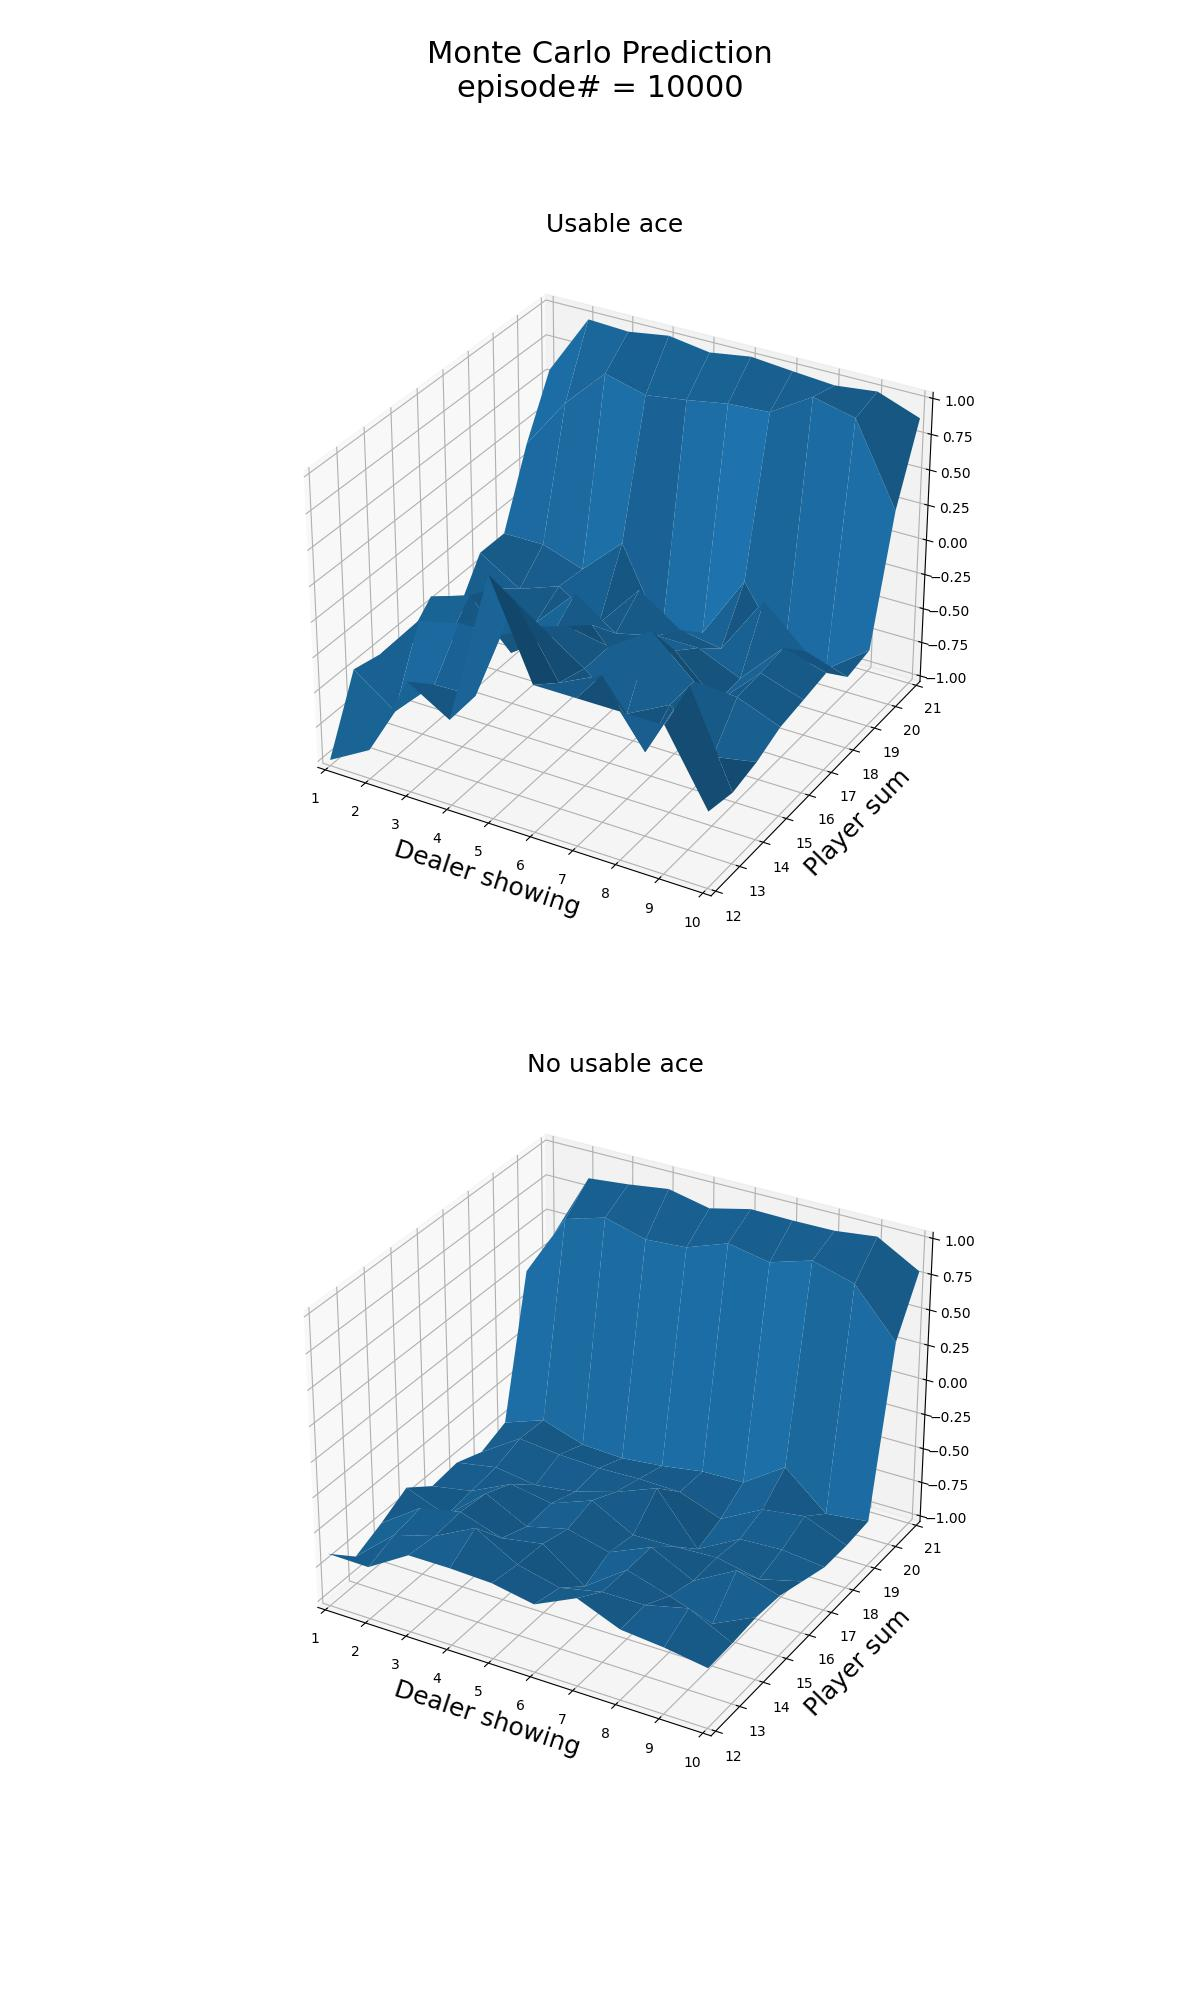
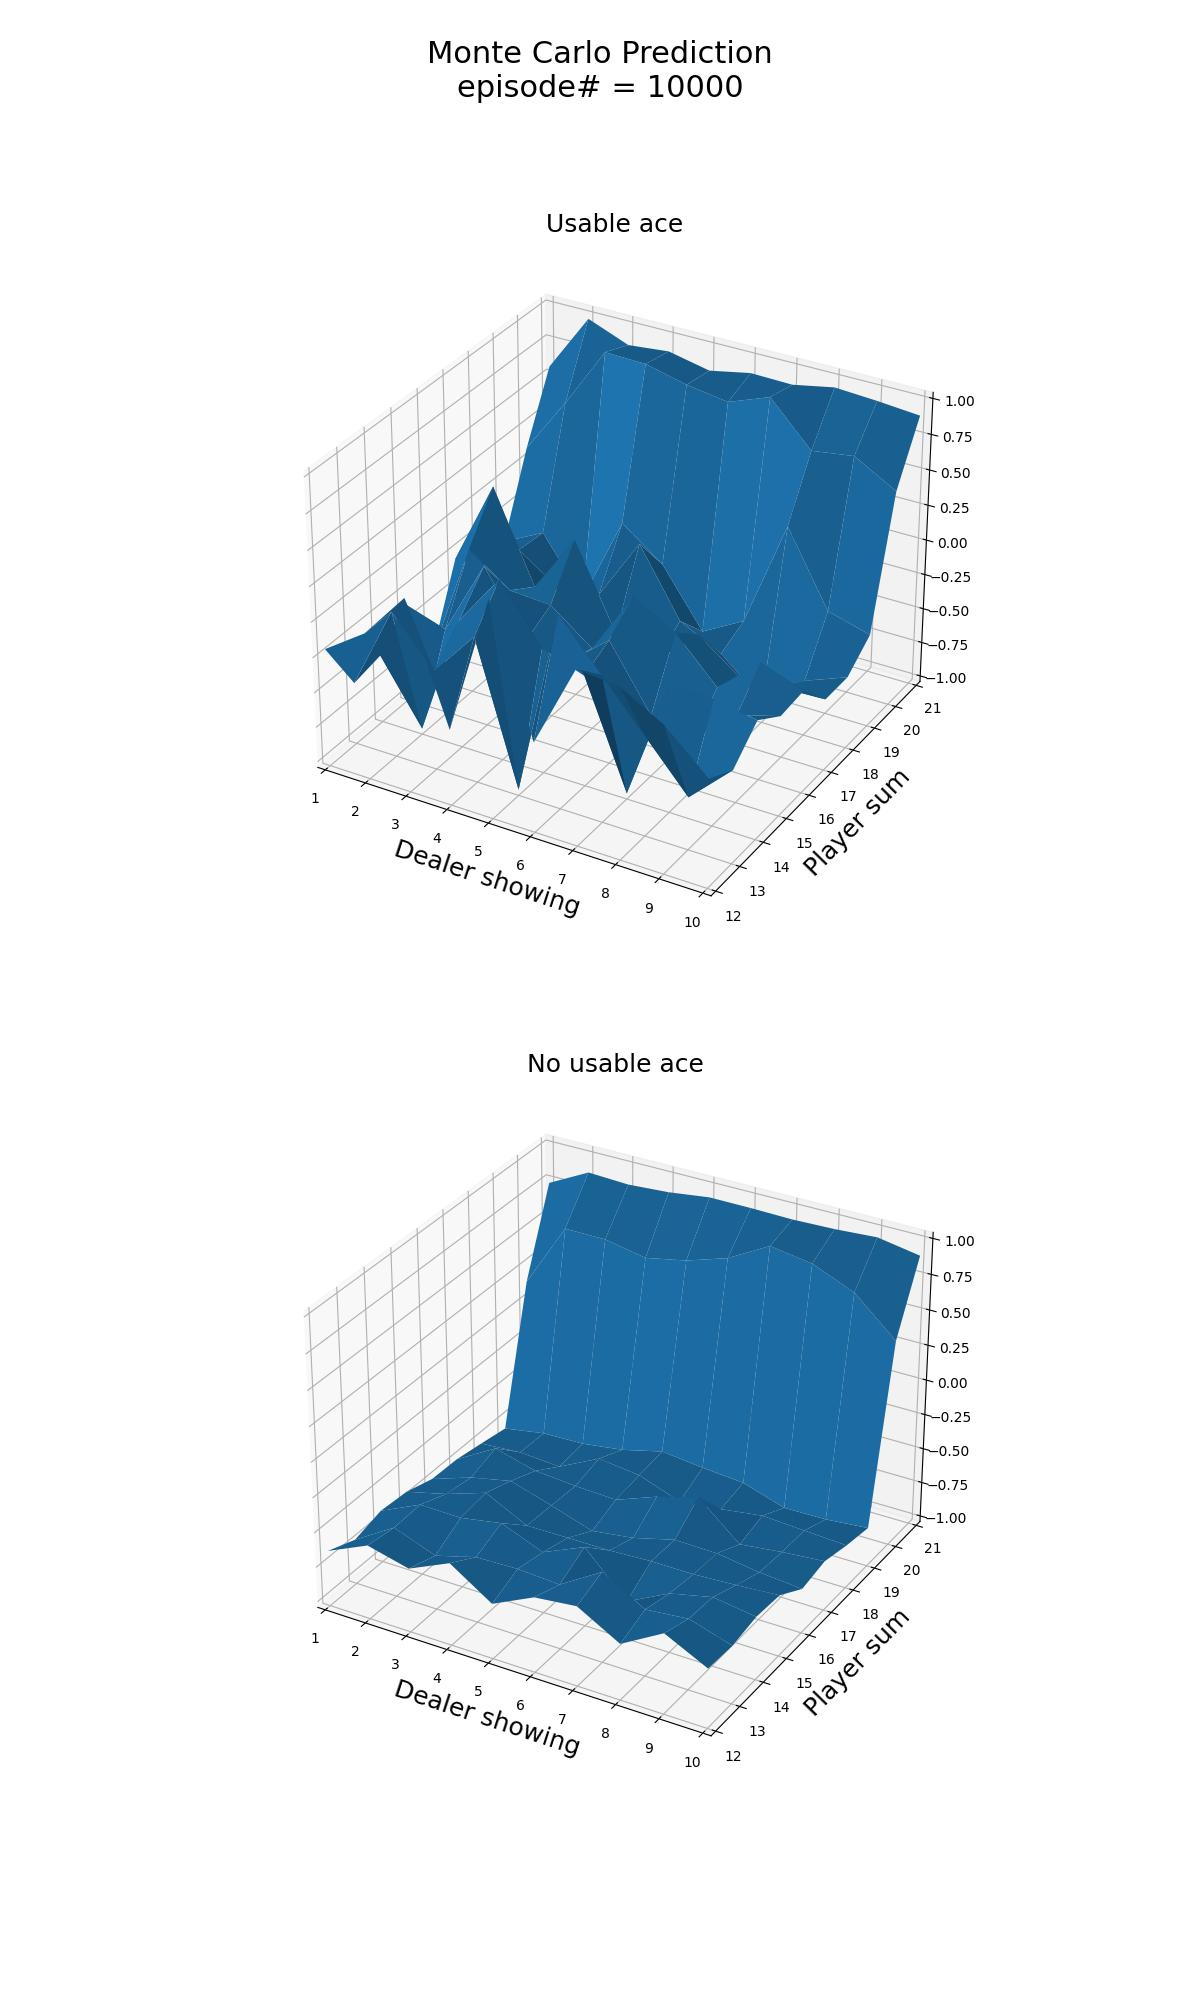
change in blackjackEnv, reset from a given state

diff --git a/rl_envs/blackjack.py b/rl_envs/blackjack.py
@@ -1,6 +1,6 @@
 from gym import Env
 from gym.utils import seeding
-
+from gym.spaces import Discrete, Tuple
 
 class BlackjackEnv(Env):
 
@@ -12,33 +12,40 @@ class BlackjackEnv(Env):
     def __init__(self):
 
         self.np_random = None
-
         self.dealer_card = None
         self.player_sum = None
         self.usable_ace = None
-        self.player_tot_cards = None
         self.info = None
+
+        self.action_space = Discrete(2)
+        self.observation_space = Tuple((Discrete(10), Discrete(10), Discrete(2)))
 
         self._seed()
 
-    def reset(self):
-        self.player_tot_cards = 0
-        self.player_sum = 0
-        self.usable_ace = False
-        self.info = {'player': [], 'dealer': []}
+    def reset(self, s0=None):
+        if s0:
+            self.player_sum = 12 + s0[0]
+            self.dealer_card = 1 + s0[1]
+            self.usable_ace = s0[2] == 1
+            self.info = {'player': [(self.player_sum, self.usable_ace)], 'dealer': [self.dealer_card]}
 
-        while self.player_sum < 12:
-            c = self._draw_card()
-            self.info['player'].append(c)
-            self.player_tot_cards += 1
-            if c == 1 and self.player_sum + 11 <= 21:
-                self.player_sum += 11
-                self.usable_ace = True
-            else:
-                self.player_sum += c
+        else:
+            self.player_sum = 0
+            self.usable_ace = False
+            self.info = {'player': [], 'dealer': []}
 
-        self.dealer_card = self._draw_card()
-        self.info['dealer'].append(self.dealer_card)
+            while self.player_sum < 12:
+                c = self._draw_card()
+                self.info['player'].append(c)
+                if c == 1 and self.player_sum + 11 <= 21:
+                    self.player_sum += 11
+                    self.usable_ace = True
+                else:
+                    self.player_sum += c
+
+            self.dealer_card = self._draw_card()
+            self.info['dealer'].append(self.dealer_card)
+
         return self._get_obs()
 
     def step(self, action):
@@ -46,7 +53,6 @@ class BlackjackEnv(Env):
         if action:                                                  # The player hits.
             c = self._draw_card()
             self.info['player'].append(c)
-            self.player_tot_cards += 1
             if self.player_sum + c > 21 and self.usable_ace:        # The ace in the player's hand is no longer usable
                 self.player_sum += c - 10
                 self.usable_ace = False
@@ -64,12 +70,10 @@ class BlackjackEnv(Env):
             else:
                 dealer_ace = False
                 dealer_sum = self.dealer_card
-            dealer_tot_cards = 1
 
             while dealer_sum < 17:                                  # The dealer hits until the sum of his cards is >=17
                 c = self._draw_card()
                 self.info['dealer'].append(c)
-                dealer_tot_cards += 1
                 if c == 1 and dealer_sum + 11 <= 21:                # The dealer draws an ace that can be used as an 11
                     dealer_sum += 11
                     dealer_ace = True
@@ -85,15 +89,8 @@ class BlackjackEnv(Env):
                     return self._get_obs(), 1.0, True, self.info
                 elif self.player_sum < dealer_sum:                  # The dealer had a hand closer to 21 than the dealer
                     return self._get_obs(), -1.0, True, self.info
-                else:                                           # The sum of the dealer's and the player's hand is equal
-                    if self.player_sum < 21 or (self.player_tot_cards == 2 and dealer_tot_cards == 2):
-                        return self._get_obs(), 0.0, True, self.info   # The sum was less than 21 or both had a natural 21
-                    elif self.player_tot_cards == 2:
-                        return self._get_obs(), 1.0, True, self.info   # Only the player has a natural blackjack.
-                    elif dealer_tot_cards == 2:
-                        return self._get_obs(), -1.0, True, self.info  # Only the dealer has a natural blackjack.
-                    else:
-                        return self._get_obs(), 0.0, True, self.info   # Neither the player nor the dealer had a natural 21.
+                else:                                               # The sum of the dealer's and the player's hand is equal
+                    return self._get_obs(), 0.0, True, self.info    # The sum was less than 21 or both had a natural 21
 
     def _get_obs(self):
         return self.player_sum, self.dealer_card, self.usable_ace

diff --git a/blackjack_mc_prediction/blackjack_mc_prediction.py b/blackjack_mc_prediction/blackjack_mc_prediction.py
@@ -89,8 +89,13 @@ def plot_blackjack_results(n_episodes, v_history):
     :param v_history: A list containing the state value function for each episode of MC
     """
 
-    STEP = 10000
-    INTERVAL = 500
+    # Animation Parameters for n=10,000
+    STEP = 1000
+    INTERVAL = 2000
+
+    # Animation Parameters for n=500,000
+    # STEP = 10000
+    # INTERVAL = 500
 
     fig1 = plt.figure(figsize=(12, 20))
     ax11 = fig1.add_subplot(211, projection='3d')
